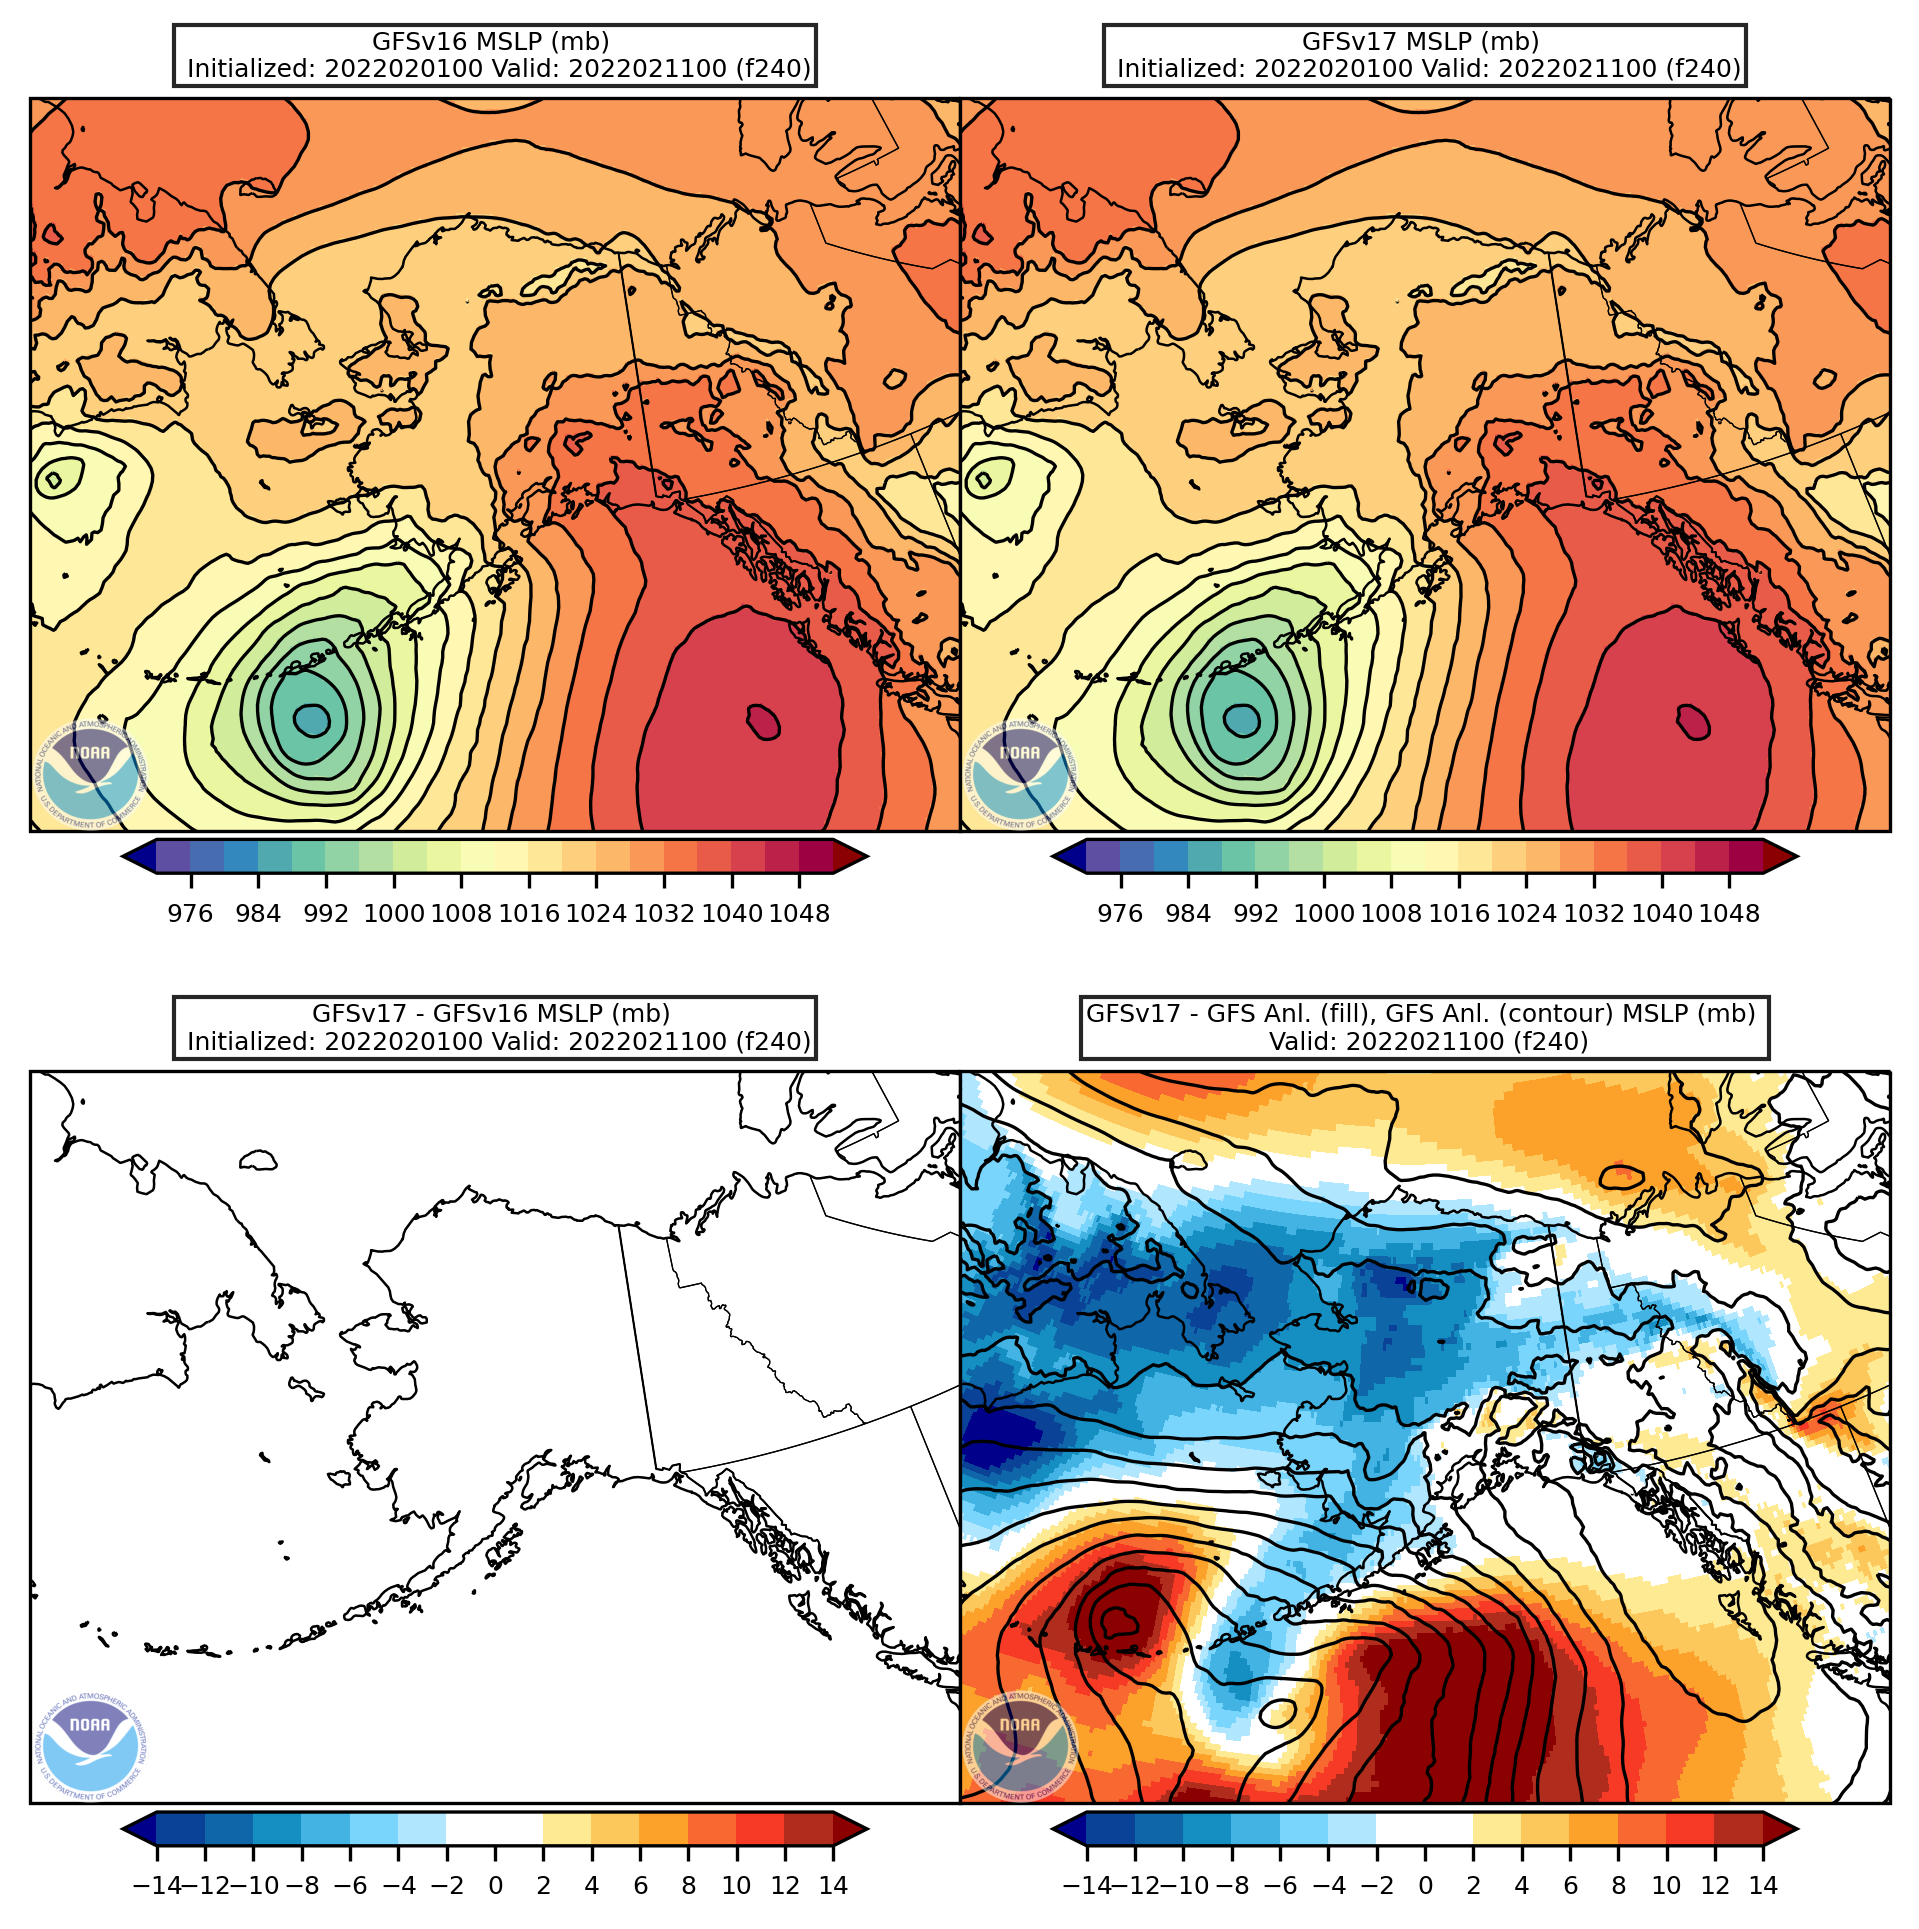
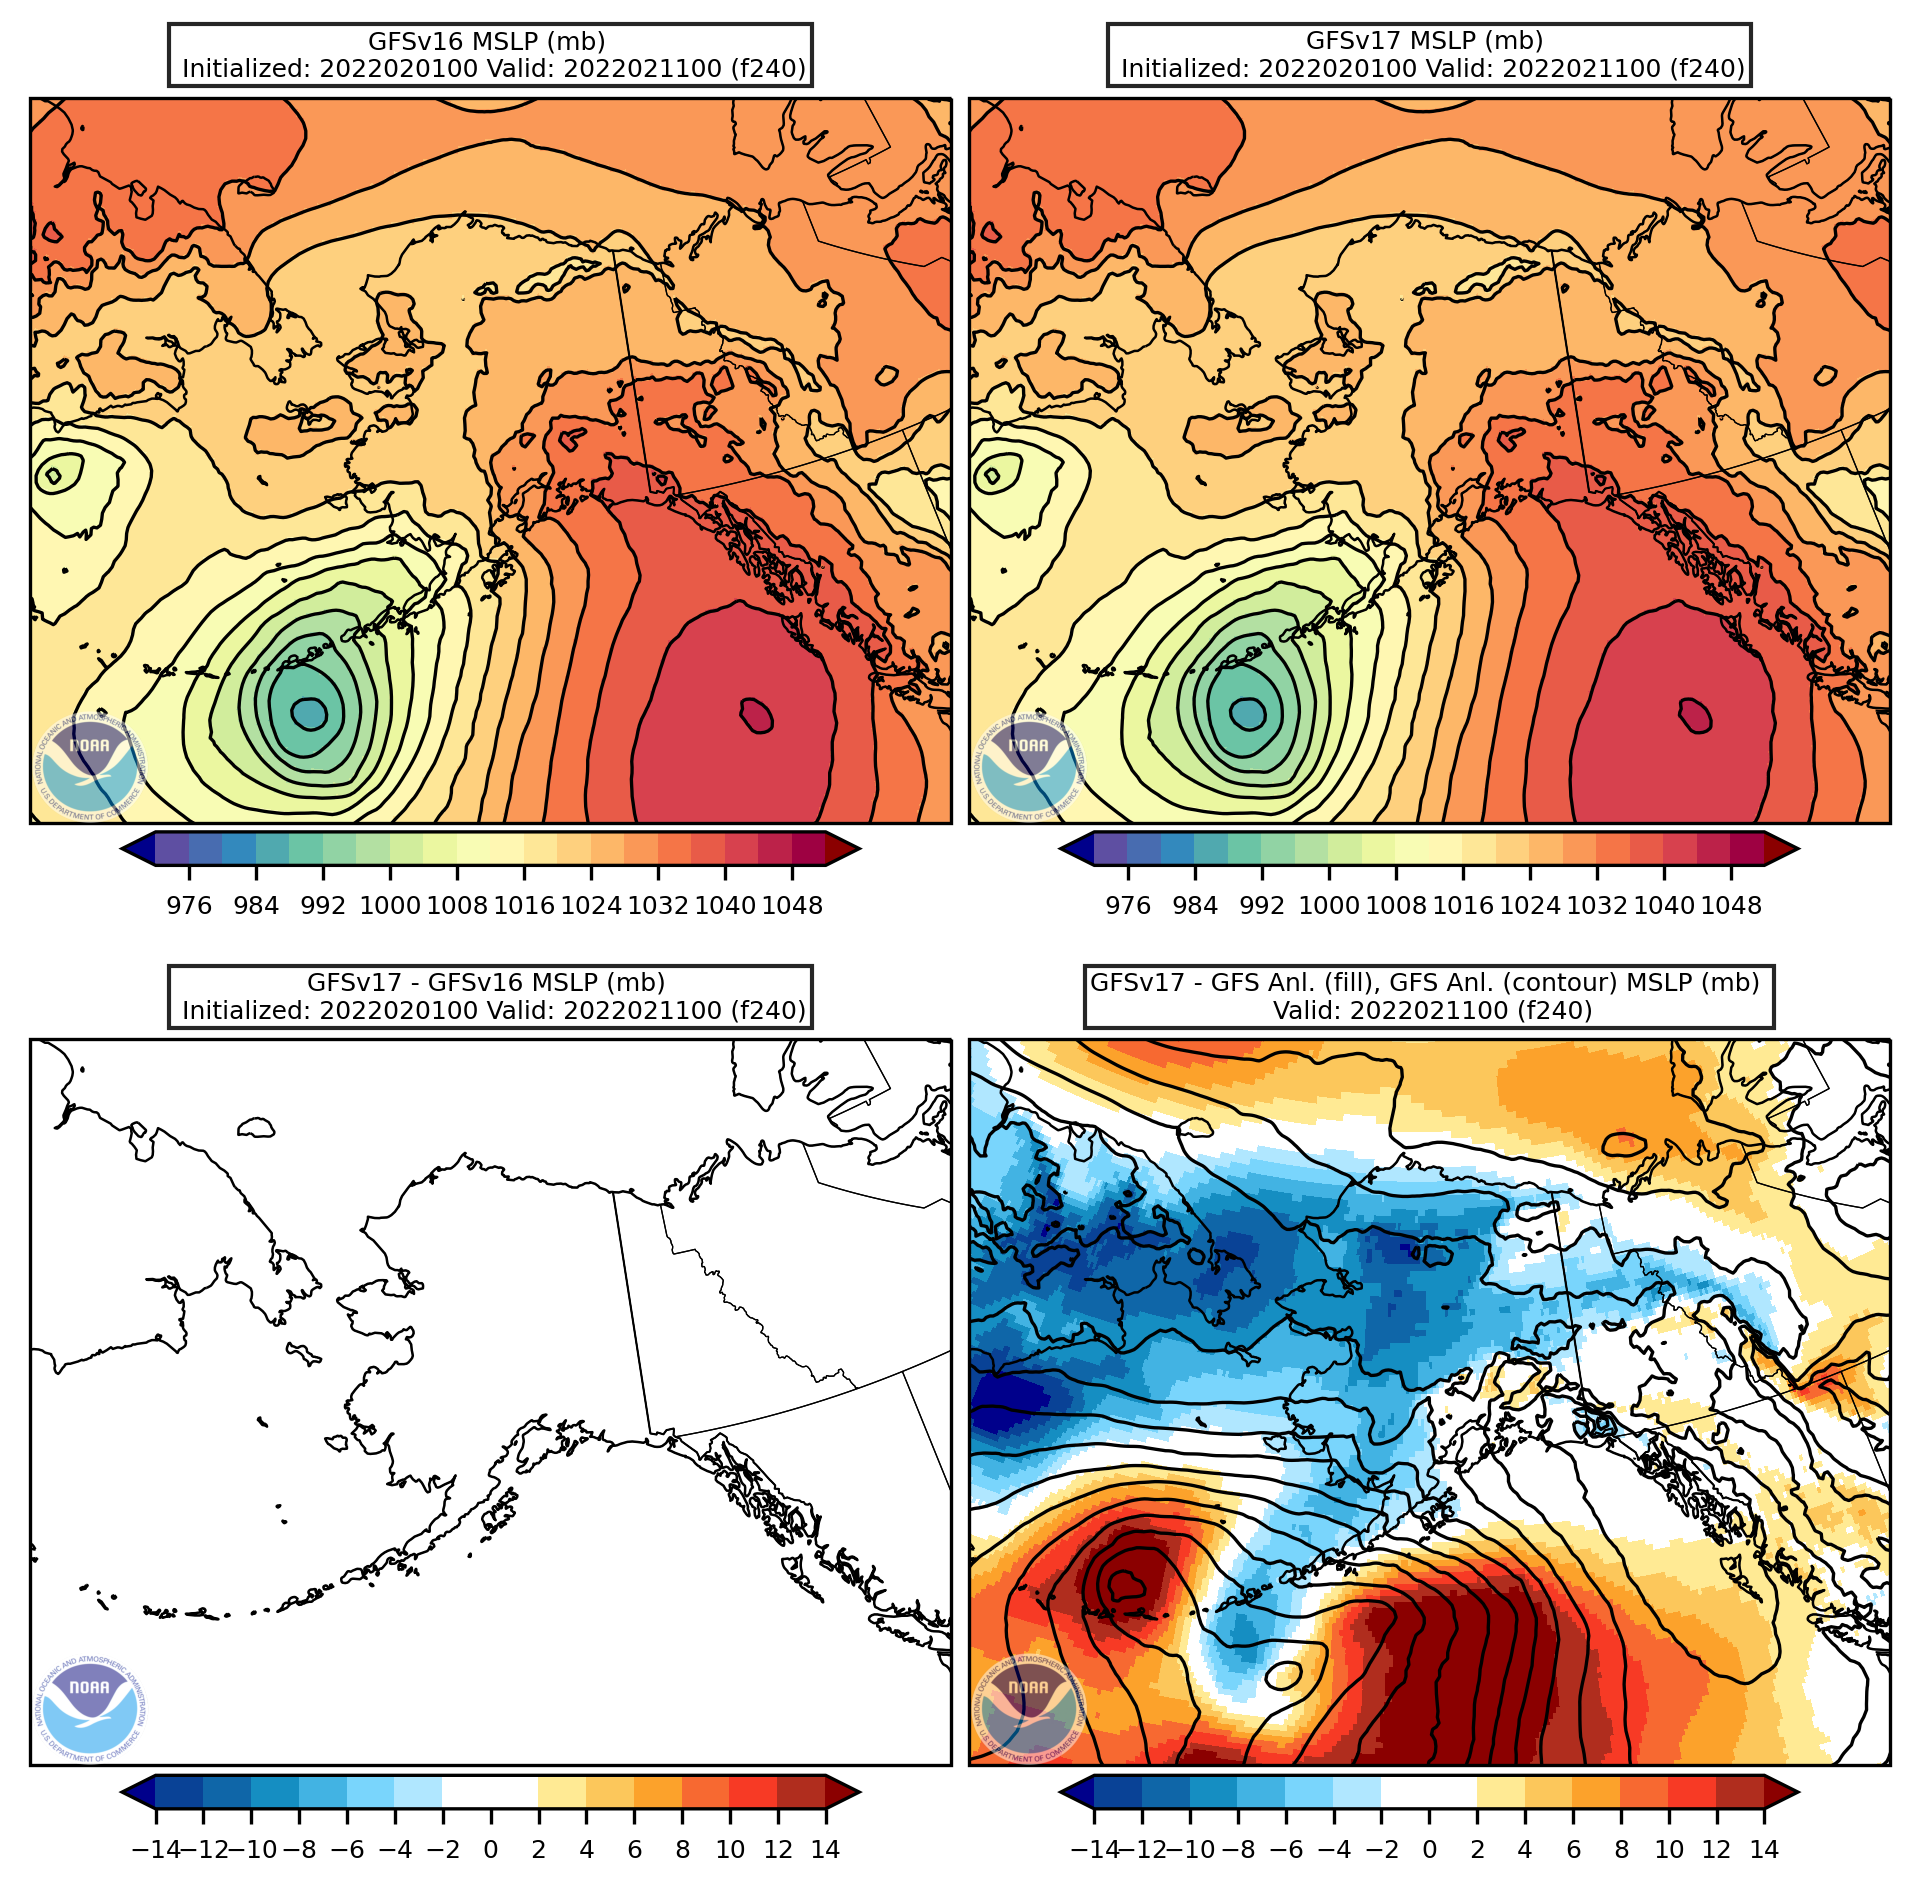
Added white space between panels for synoptic and OCONUS domains

diff --git a/plot_maps/plot_gfs_slp_4panel.py b/plot_maps/plot_gfs_slp_4panel.py
@@ -304,14 +304,14 @@ def create_figure():
 
   # Map corners for each domain
   if dom == 'conus':
-    llcrnrlon = -125.5
-    llcrnrlat = 20.0 
-    urcrnrlon = -63.5
-    urcrnrlat = 51.0
+    llcrnrlon = -123.0
+    llcrnrlat = 19.5 
+    urcrnrlon = -65.25
+    urcrnrlat = 52.5
     cen_lat = 35.4
     cen_lon = -97.6
-    xextent=-2500000
-    yextent=-840000
+    xextent=-2200000
+    yextent=-885000
   elif dom == 'northeast':
     llcrnrlon = -81.0
     llcrnrlat = 39.497
@@ -445,8 +445,8 @@ def create_figure():
     urcrnrlat = 52.415
     cen_lat = 40.0
     cen_lon = -118.0
-    xextent=-1979000
-    yextent=-895500
+    xextent=-1978000
+    yextent=-895000
   elif dom == 'puertorico':
     llcrnrlon = -83.19
     llcrnrlat = 8.0
@@ -520,14 +520,14 @@ def create_figure():
     xextent=-863000
     yextent=-382000
   elif dom == 'northpacific':
-    llcrnrlon = -225.23
-    llcrnrlat = 0.0
-    urcrnrlon = -121.0
-    urcrnrlat = 66.5
+    llcrnrlon = -223.5
+    llcrnrlat = 1.0
+    urcrnrlon = -123.5
+    urcrnrlat = 72.57
     cen_lat = 30.0
     cen_lon = -180.0
-    xextent=-4005000
-    yextent=-1940000
+    xextent=-4100000
+    yextent=-1925000
   elif dom == 'globe':
     llcrnrlon = -180.00
     llcrnrlat = -90.0
@@ -550,19 +550,19 @@ def create_figure():
 
   # set up the map background with cartopy
   if dom == 'conus':
-    fig = plt.figure(figsize=(9,7))
-    gs = GridSpec(18,18,wspace=0.0,hspace=0.0)
+    fig = plt.figure(figsize=(8,8))
+    gs = GridSpec(19,18,wspace=0.2,hspace=0.0)
     extent = [llcrnrlon-1,urcrnrlon-6,llcrnrlat,urcrnrlat+1]
     myproj=ccrs.LambertConformal(central_longitude=cen_lon, central_latitude=cen_lat,
             false_easting=0.0,false_northing=0.0, secant_latitudes=None,
             standard_parallels=None,globe=None)
     ax1 = fig.add_subplot(gs[0:9,0:9], projection=myproj)
     ax2 = fig.add_subplot(gs[0:9,9:], projection=myproj)
-    ax3 = fig.add_subplot(gs[9:,0:9], projection=myproj)
-    ax4 = fig.add_subplot(gs[9:,9:], projection=myproj)
+    ax3 = fig.add_subplot(gs[0:,0:9], projection=myproj)
+    ax4 = fig.add_subplot(gs[0:,9:], projection=myproj)
   elif dom == 'northamerica' or dom == 'northpacific':
     fig = plt.figure(figsize=(8,8))
-    gs = GridSpec(19,18,wspace=0.0,hspace=0.0)
+    gs = GridSpec(19,18,wspace=0.2,hspace=0.0)
     extent = [llcrnrlon,urcrnrlon,llcrnrlat,urcrnrlat]
     myproj=ccrs.LambertConformal(central_longitude=cen_lon, central_latitude=cen_lat,
             false_easting=0.0,false_northing=0.0, secant_latitudes=None,
@@ -573,15 +573,15 @@ def create_figure():
     ax4 = fig.add_subplot(gs[4:,9:], projection=myproj)
   elif dom == 'eastcoast' or dom == 'gulfofmexico' or dom == 'alaska' or dom == 'westcoast' or dom == 'puertorico' or dom == 'hawaii' or dom == 'eastpacific' or dom == 'westpacific' or dom == 'southpacific':
     fig = plt.figure(figsize=(8,8))
-    gs = GridSpec(19,18,wspace=0.0,hspace=0.0)
+    gs = GridSpec(19,18,wspace=0.2,hspace=0.0)
     extent = [llcrnrlon,urcrnrlon,llcrnrlat,urcrnrlat]
     myproj=ccrs.LambertConformal(central_longitude=cen_lon, central_latitude=cen_lat,
             false_easting=0.0,false_northing=0.0, secant_latitudes=None,
             standard_parallels=None,globe=None)
     ax1 = fig.add_subplot(gs[0:9,0:9], projection=myproj)
     ax2 = fig.add_subplot(gs[0:9,9:], projection=myproj)
-    ax3 = fig.add_subplot(gs[10:,0:9], projection=myproj)
-    ax4 = fig.add_subplot(gs[10:,9:], projection=myproj)
+    ax3 = fig.add_subplot(gs[8:,0:9], projection=myproj)
+    ax4 = fig.add_subplot(gs[8:,9:], projection=myproj)
   elif dom == 'globe':
     fig = plt.figure(figsize=(8,8))
     gs = GridSpec(19,18,wspace=0.0,hspace=0.0)
@@ -716,7 +716,7 @@ def plot_set_1():
   # Wind barb density and line thicknes settings
   if dom == 'conus':
     skip = 100
-    thick = 0.75
+    thick = 0.6
     slp1 = slp_1
     slp2 = slp_2
     slp4 = slp_4
